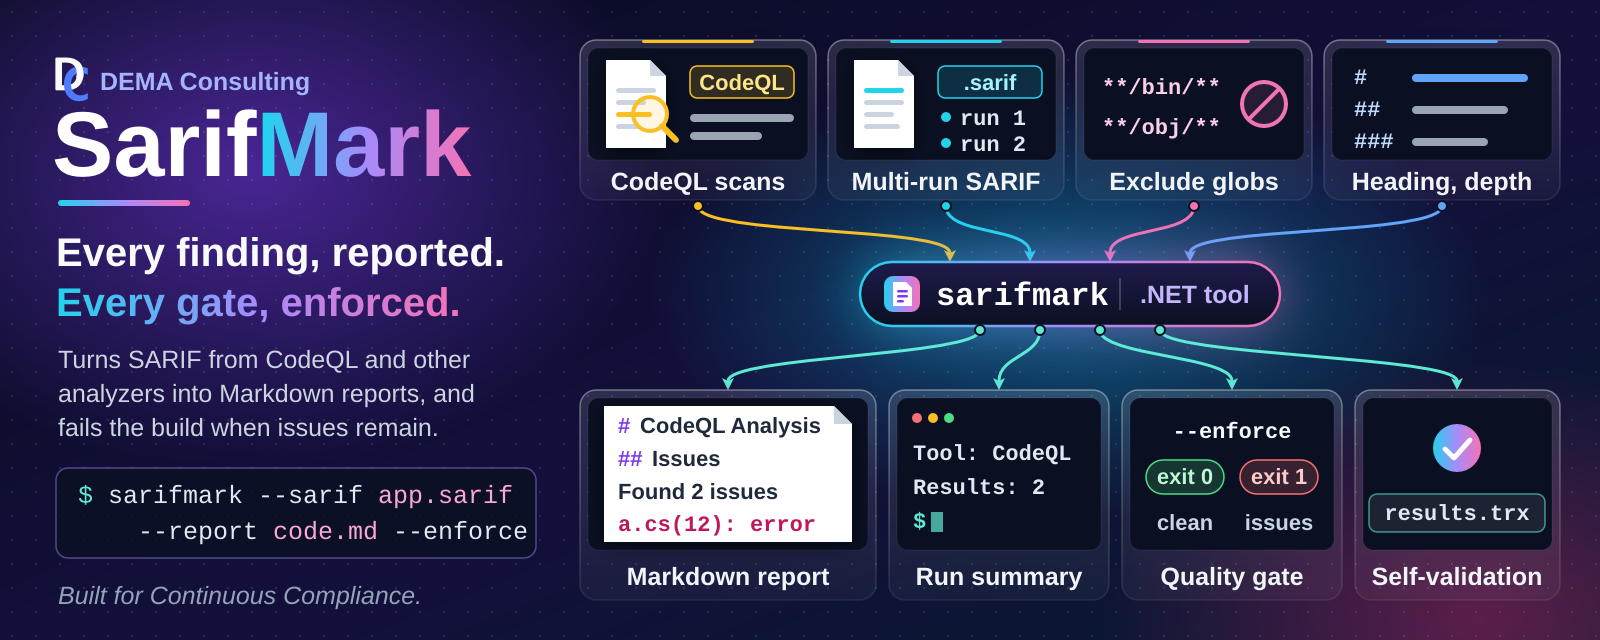
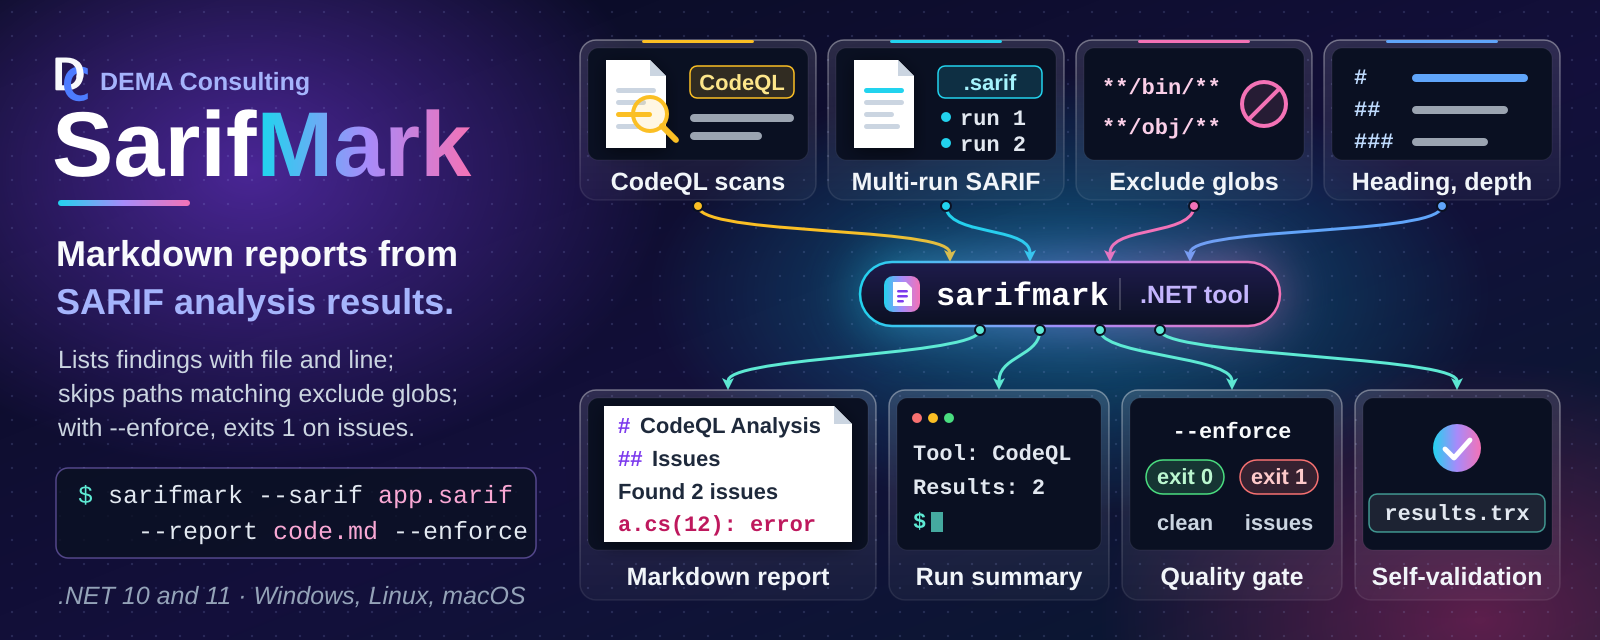
Sync agents/template and calm the README hero (#165)
* Sync shared agents, skills and standards from Agents main

Copies orchestrator/planning (#62) and the SysML2 package-structure standard and
query skill (#64) verbatim, adds the AGENTS.md Project Scripts section, removes
fix.ps1/lint.ps1 from the protected list, and records the legacy SysML2 package
layout as a repository-specific exception.

* Sync reference template: yamlfix comment setting and script CUSTOMIZATION headers

Applies template #61 (comments_require_starting_space = false) and #63 (CUSTOMIZATION
headers replacing the EXTENSION POINTS / MODIFICATION POLICY text). Comment-only
changes to the scripts; their steps are unchanged.

* Calm the README hero and make it the H1

Replaces the 'Every finding, reported. / Every gate, enforced.' slogan with a plain
tagline, factual body lines and a platform footnote; drops the tagline gradient and
uses 36px tagline text (template #66). The README's first line is now the hero
heading with the badges directly under it; the separate title, subtitle and hero
image lines are removed.

---------

Changed region(s): [[0.0312, 0.5312, 0.3125, 0.6875], [0.0312, 0.375, 0.3125, 0.5], [0.0312, 0.9062, 0.3438, 0.9688]]

diff --git a/.github/standards/sysml2-modeling.md b/.github/standards/sysml2-modeling.md
@@ -31,15 +31,15 @@ docs/sysml2/
 ├── common/
 │   └── software-items.sysml           # shared SoftwareItemMetadata::SoftwareInfo metadata def
 ├── model/
-│   ├── {system-name}.sysml            # system-level part def only (no subsystems/units inline)
+│   ├── {system-name}.sysml            # package {SystemName}; system-level part def only (no subsystems/units inline)
 │   ├── {system-name}/
-│   │   ├── {subsystem-name}.sysml     # subsystem part def; nests further for sub-subsystems
+│   │   ├── {subsystem-name}.sysml     # package {SystemName}_{SubsystemName}Subsystem; nests further for sub-subsystems
 │   │   └── {subsystem-name}/
-│   │       └── {unit-name}.sysml      # one file per unit
-│   ├── ots.sysml                      # OTS dependency parts (optional; if OTS items exist)
-│   └── shared.sysml                   # Shared Package parts (optional; if Shared Packages exist)
+│   │       └── {unit-name}.sysml      # package {SystemName}_{UnitName}; one file per unit
+│   ├── ots.sysml                      # package OtsDependencies: OTS parts (optional; if OTS items exist)
+│   └── shared.sysml                   # package SharedPackages: Shared Package parts (optional; if Shared Packages exist)
 └── views/
-    └── design-views.sysml             # named view usages rendered for the design document
+    └── design-views.sysml             # package {RepoName}DesignViews; named view usages rendered for the design document
 ```
 
 `docs/sysml2/common/software-items.sysml` defines the `SoftwareItemMetadata::SoftwareInfo`
@@ -62,14 +62,42 @@ so no single alias name would generalize. Agents discover the system(s) present 
 `docs/sysml2/**/*.sysml`, not by assuming a fixed name.
 
 Always pass the full set of `.sysml` files (or an equivalent glob) to every `sysml2tools`
-invocation — the model spans multiple files and cross-references between them; files sharing
-the same `package Name { ... }` merge into one namespace automatically with no `import`
-required, as long as all files are passed together. As of `sysml2tools` 0.1.0-beta.5,
+invocation — the model spans multiple files and cross-references between them, and a
+reference only resolves when the file declaring its target is loaded (see Package Structure
+below for how files reference each other). As of `sysml2tools` 0.1.0-beta.5,
 `lint` and `render` both expand `*`/`**` glob patterns internally (recursing correctly into
 subdirectories), so pass a single **quoted** glob string (e.g. `'docs/sysml2/**/*.sysml'`)
 and let the tool resolve it — do not rely on the shell to expand it, and do not quote-strip
 the pattern before it reaches the tool. Quoting keeps the behavior identical across
 PowerShell and bash, since neither shell needs to (or reliably does) expand `**` itself.
+
+## Package Structure
+
+SysML v2 has no package merging: each file is its own root namespace, and two root packages
+with the same name are duplicate members of the global namespace (the OMG Pilot
+Implementation reports "Duplicate of other owned member name" for each, and references across
+the halves do not resolve). A model that only loads because a tool is lenient is not portable,
+so:
+
+- Each `.sysml` file declares **exactly one uniquely named package**, and a package is never
+  declared (or "reopened") in more than one file.
+- Name each package from its place in the hierarchy, joined with an underscore:
+  `{SystemName}` for the system file, `{SystemName}_{SubsystemName}Subsystem` for a subsystem
+  (including a nested sub-subsystem, which is not prefixed with its parent subsystem), and
+  `{SystemName}_{UnitName}` for a unit. The system prefix keeps names unique across systems.
+  The shared files use `OtsDependencies` and `SharedPackages`, and the single views file uses
+  one repository-level package, `{RepoName}DesignViews` (not one per system).
+- Package names must be unique **repository-wide**. The short forms above are the default;
+  when one would collide (two `Storage` subsystems in different branches, or two units named
+  `Cache` in different subsystems), qualify it with the owning subsystem path, for example
+  `{SystemName}_{SubsystemName}_{UnitName}` (`Acme_Ingest_Cache` and `Acme_Query_Cache`).
+- Reference other files with an explicit `private import {PackageName}::*;` (a system or
+  subsystem file imports the package of each direct member so its `part` usages resolve; every
+  file that applies `SoftwareInfo` imports `SoftwareItemMetadata::*`).
+- Where an import would form a cycle (for example a unit that depends on a package that
+  already imports it), or for a one-off reference into another system, use the qualified name
+  instead, e.g. `dependency {UnitName} to {SystemName}_{OtherUnit}::{OtherUnit};`.
+  Import cycles raise a lint warning; qualified references do not.
 
 ## Model Content
 
@@ -174,11 +202,13 @@ Views control what gets rendered into diagrams for the design document. Use name
 **usages** (not `view def` **definitions**) — `expose` is only valid inside a usage:
 
 ```sysml
-package {SystemName} {
+package {RepoName}DesignViews {
     private import StandardViewDefinitions::*;
+    private import {SystemName}::*;
+    private import {SystemName}_{SubsystemName}Subsystem::*;
 
     view SoftwareStructureView : InterconnectionView {
-        expose {SystemName}::**;     // all members, recursively: system + subsystems + units
+        expose {SystemName}::{SystemName}System::**;  // system part def, recursively: subsystems + units
     }
 
     view {SystemName}View {
@@ -186,10 +216,12 @@ package {SystemName} {
     }
 
     view {SubsystemName}View {
-        expose {SubsystemName};      // one subsystem def only
+        expose {SubsystemName}Subsystem;      // one subsystem def only
     }
 }
 ```
+
+Views import (or qualify) every package whose members they expose, like any other file.
 
 Type `SoftwareStructureView` by a standard view definition from the SysML v2 Views library
 (`GeneralView`, `InterconnectionView`, ...; requires `sysml2tools` 0.3.0-beta.3+). The view
@@ -223,25 +255,27 @@ There is no dedicated `DependencyView`/`{SubsystemName}DependencyView` diagram c
 above), not rendered.
 
 When a repository has multiple systems, type `SoftwareStructureView` by `GeneralView`,
-expose each system package's members, and filter out documentation so the overview stays
-readable — the general view draws one package frame per system, while an interconnection
-view places all systems in a single row:
+expose each system's part def (and each subsystem's, by qualified name), and filter out
+documentation so the overview stays readable — the general view draws one package frame per
+system, while an interconnection view places all systems in a single row:
 
 ```sysml
 package {RepoName}DesignViews {
     private import StandardViewDefinitions::*;
 
     view SoftwareStructureView : GeneralView {
-        expose {SystemNameA}::**;
-        expose {SystemNameB}::**;
-        filter not @SysML::Documentation;
+        expose {SystemNameA}::{SystemNameA}System;
+        expose {SystemNameA}_{SubsystemName}Subsystem::{SubsystemName}Subsystem;
+        expose {SystemNameB}::{SystemNameB}System;
+        filter not (@SysML::Documentation);
     }
 }
 ```
 
 Documentation (`doc`) is exposed with its owner and drawn as a `doc` compartment unless a
-view filters it out; use `filter not @SysML::Documentation;` wherever doc text would clutter
-a diagram.
+view filters it out; use `filter not (@SysML::Documentation);` wherever doc text would clutter
+a diagram. The parentheses are required: the SysML v2 grammar does not accept the unparenthesized
+`filter not @SysML::Documentation;`.
 
 ## Diagram Embedding
 
@@ -313,6 +347,9 @@ sync.
   `sourceFiles`; the purpose statement appears only in the `doc` comment, never in `SoftwareInfo`
 - [ ] `docs/sysml2/views/design-views.sysml` uses `view Name { expose ...; }` usages, not
   `view def` definitions
+- [ ] Each `.sysml` file declares exactly one uniquely named package (never the same package
+  in two files), named per Package Structure, and references other files through
+  `private import` or qualified names (qualified where an import would form a cycle)
 - [ ] View names follow the `SoftwareStructureView` / `{SystemName}View` /
   `{SubsystemName}View` convention (no dedicated `DependencyView`)
 - [ ] Each Unit's real collaborators are captured as `dependency A to B;` statements, and each

diff --git a/AGENTS.md b/AGENTS.md
@@ -81,8 +81,8 @@ from `.github/standards/`. Use this matrix to determine which to load:
 - **Verification docs**: `software-items.md`, `verification-documentation.md`, `technical-documentation.md`
 - **Review configuration**: `software-items.md`, `reviewmark-usage.md`
 - **Software structure**: `sysml2-modeling.md`
-- **Diagrams in documentation**: `diagram-documentation.md` (and the `canvasnet` skill for tooling)
 - **Any documentation**: `technical-documentation.md`
+- **Diagrams in documentation**: `diagram-documentation.md` (and the `canvasnet` skill for tooling)
 - **Reading PDF or Office documents**: the `docdown` skill
 
 Load only the standards relevant to your specific task scope.
@@ -159,10 +159,31 @@ requires it and the modification preserves the documented design intent:
 
 - `.reviewmark.yaml`, `.textlint.yaml`, `.editorconfig`
 - `.lintmark.yaml`, `.yamllint.yaml`
-- `requirements.yaml`, `fix.ps1`, `lint.ps1`
+- `requirements.yaml`
+
+# Project Scripts
+
+`build.ps1`, `lint.ps1`, and `fix.ps1` belong to the project: extend them as it grows. Add project-specific
+steps, update tool versions, and add optional parameters that focus a run (for example one library in a
+multi-library repository, or headless tests without GUI automation). Two rules keep them trustworthy:
+
+- Run with no arguments, each script still does its full job (CI and the agents rely on that); slow or
+  environment-dependent test tiers may be opt-in switches of `build.ps1`.
+- Never remove or weaken a check to make lint or tests pass.
 
 # Continuous Compliance Overview
 
 This repository follows the [Continuous Compliance](https://github.com/demaconsulting/ContinuousCompliance)
 approach. Tools: **ReqStream** (requirements traceability), **ReviewMark** (file review enforcement),
 **BuildMark** (tool versions), **VersionMark** (version tracking).
+
+# Repository-Specific Standards Exceptions
+
+## SysML2 package structure (legacy layout, migration pending)
+
+The SysML2 model under `docs/sysml2/` predates the `sysml2-modeling.md` Package Structure rules: package
+`SarifMark` is reopened across 13 files (`model/sarifmark.sysml`, the 11 files under `model/sarifmark/`, and
+`views/design-views.sysml`), shared packages use `SharedDependencies` (not `SharedPackages`), and the views
+live in `SarifMark` (not `SarifMarkDesignViews`). The Package Structure rules and the `sysml2tools-query`
+qualified-name examples apply once the model is migrated in a dedicated PR. Until then, agents use the existing
+package names and must not partially restructure the model.

diff --git a/.github/skills/sysml2tools-query/SKILL.md b/.github/skills/sysml2tools-query/SKILL.md
@@ -21,11 +21,15 @@ dotnet tool restore
 ## Model files
 
 - `docs/sysml2/model/{system-name}.sysml` — system-level `part def` only (no subsystems/units
-  inline). A repository may contain more than one system.
+  inline), in package `{SystemName}`. A repository may contain more than one system.
 - `docs/sysml2/model/{system-name}/{subsystem-name}.sysml` and
   `docs/sysml2/model/{system-name}/{subsystem-name}/{unit-name}.sysml` — one file per
   Subsystem/Unit, nested to mirror the same folder depth as that item's companion
-  `docs/design/`, `docs/reqstream/`, and `docs/verification/` files.
+  `docs/design/`, `docs/reqstream/`, and `docs/verification/` files. Each declares its own
+  uniquely named package; by default `{SystemName}_{SubsystemName}Subsystem` or
+  `{SystemName}_{UnitName}`, qualified with the subsystem path
+  (`{SystemName}_{SubsystemName}_{UnitName}`) when the short name would collide. An element's
+  qualified name is e.g. `{SystemName}_{UnitName}::{UnitName}`.
 - `docs/sysml2/model/ots.sysml` — off-the-shelf (OTS) dependency parts (present when OTS items
   exist).
 - `docs/sysml2/model/shared.sysml` — Shared Package parts (present when Shared Package items
@@ -35,9 +39,10 @@ dotnet tool restore
   useful to see how diagrams are scoped.
 
 Always pass all `.sysml` files (or a glob covering them) to every `sysml2tools`
-invocation — the model spans multiple files and cross-references between them; files that
-reopen the same `package Name { ... }` from different files merge into one namespace
-automatically, no `import` required. As of `sysml2tools` 0.1.0-beta.5, every subcommand
+invocation — the model spans multiple files and cross-references between them (each file
+declares one uniquely named package and references others through `import` or qualified
+names; same-named packages in different files are not merged), so every file a reference
+points at must be loaded. As of `sysml2tools` 0.1.0-beta.5, every subcommand
 (`lint`, `render`, `query`) expands `*`/`**` glob patterns internally and recurses
 correctly — pass a single **quoted** glob string and let the tool resolve it, rather than
 relying on the shell (quoting works identically in both PowerShell and bash):
@@ -57,7 +62,7 @@ summary line, so one query gets you every artifact location for that item withou
 the source tree:
 
 ```pwsh
-dotnet sysml2tools query describe -e {SystemName}::{UnitName} 'docs/sysml2/**/*.sysml'
+dotnet sysml2tools query describe -e {SystemName}_{UnitName}::{UnitName} 'docs/sysml2/**/*.sysml'
 ```
 
 ```text

diff --git a/README.md b/README.md
@@ -1,7 +1,4 @@
-# SarifMark
-
-<!-- IMPORTANT: All links in this file must be absolute URLs.
-     This file is distributed in packages and relative links will not resolve. -->
+# ![SarifMark: Markdown reports from SARIF analysis results][hero]
 
 [![GitHub forks](https://img.shields.io/github/forks/demaconsulting/SarifMark?style=plastic)](https://github.com/demaconsulting/SarifMark/network/members)
 [![GitHub stars](https://img.shields.io/github/stars/demaconsulting/SarifMark?style=plastic)](https://github.com/demaconsulting/SarifMark/stargazers)
@@ -11,14 +8,6 @@
 [![Quality Gate](https://sonarcloud.io/api/project_badges/measure?project=demaconsulting_SarifMark&metric=alert_status)](https://sonarcloud.io/dashboard?id=demaconsulting_SarifMark)
 [![Security](https://sonarcloud.io/api/project_badges/measure?project=demaconsulting_SarifMark&metric=security_rating)](https://sonarcloud.io/dashboard?id=demaconsulting_SarifMark)
 [![NuGet](https://img.shields.io/nuget/v/DemaConsulting.SarifMark?style=plastic)](https://www.nuget.org/packages/DemaConsulting.SarifMark)
-
-![SarifMark banner: the SarifMark name with the tagline 'Every finding, reported. Every gate, enforced.' and the
-command 'sarifmark --sarif app.sarif --report code.md --enforce'. CodeQL scans, a multi-run SARIF file, --exclude
-globs, and the report heading and depth flow on curved arrows into the sarifmark .NET tool, and arrows lead out to a
-Markdown report with a CodeQL Analysis heading, an Issues section and a finding line, a console run summary, an
---enforce quality gate that exits 0 when clean and 1 on issues, and self-validation results in a TRX file][hero]
-
-SARIF Report Generation Tool
 
 ## Overview
 

diff --git a/.github/agents/orchestrator.agent.md b/.github/agents/orchestrator.agent.md
@@ -48,3 +48,16 @@ briefly, what you loaded.
   let the user answer in their own words. Do not batch decisions into structured question forms (such as an
   `ask_user` tool); they strip away the context the user needs to decide and turn the session into a
   questionnaire.
+
+# Pull Requests (MANDATORY)
+
+Aim for pull requests that each merge one complete, useful change that could be cherry-picked on its own.
+
+- Before starting work that could span more than one pull request, propose the grouping and let the user
+  decide. The user may split it, or combine several small requests into one pull request.
+- When splitting, split by behavior, not by layer or file type: each part carries its own code, tests,
+  requirements, and docs, builds and passes alone, and leaves no stubs or dead code for a later part.
+- Deliver parts in order: start the next part from main only after the previous one merges.
+- Review fixes, lint fixes, and follow-ups go into the open pull request they belong to, not a new one.
+- Sub-agents work on the agreed branch and do not open pull requests; you decide when it is complete.
+- Keep mechanical churn (formatting, renames, generated files) in its own commit so reviewers can skip it.

diff --git a/.github/agents/planning.agent.md b/.github/agents/planning.agent.md
@@ -52,10 +52,13 @@ Repeat up to 2 more times, stopping when the plan is stable.
 
 List up to 5 risks with a brief mitigation for each.
 
-## Step 6 — Feasibility Assessment
+## Step 6 — Feasibility and Delivery
 
 State whether this can be implemented in a single development pass and any
-preconditions that affect feasibility.
+preconditions that affect feasibility. Propose how the work groups into pull
+requests: one complete, useful change per pull request where possible; if it
+should be split, list ordered parts that are split by behavior (not by layer or
+file type) and each build, pass, and deliver something on their own.
 
 ## Step 7 — Recommendation
 
@@ -108,9 +111,12 @@ Then respond to the caller with ONLY the lean structured summary below.
 
 1. **[severity]** {risk} — {mitigation}
 
-## Feasibility Assessment
+## Feasibility and Delivery
 
 {Single-pass or not, and why. Any preconditions.}
+
+{Proposed pull-request grouping: one pull request, or ordered parts split by behavior,
+each with what it delivers on its own.}
 
 ## Unknowns
 
